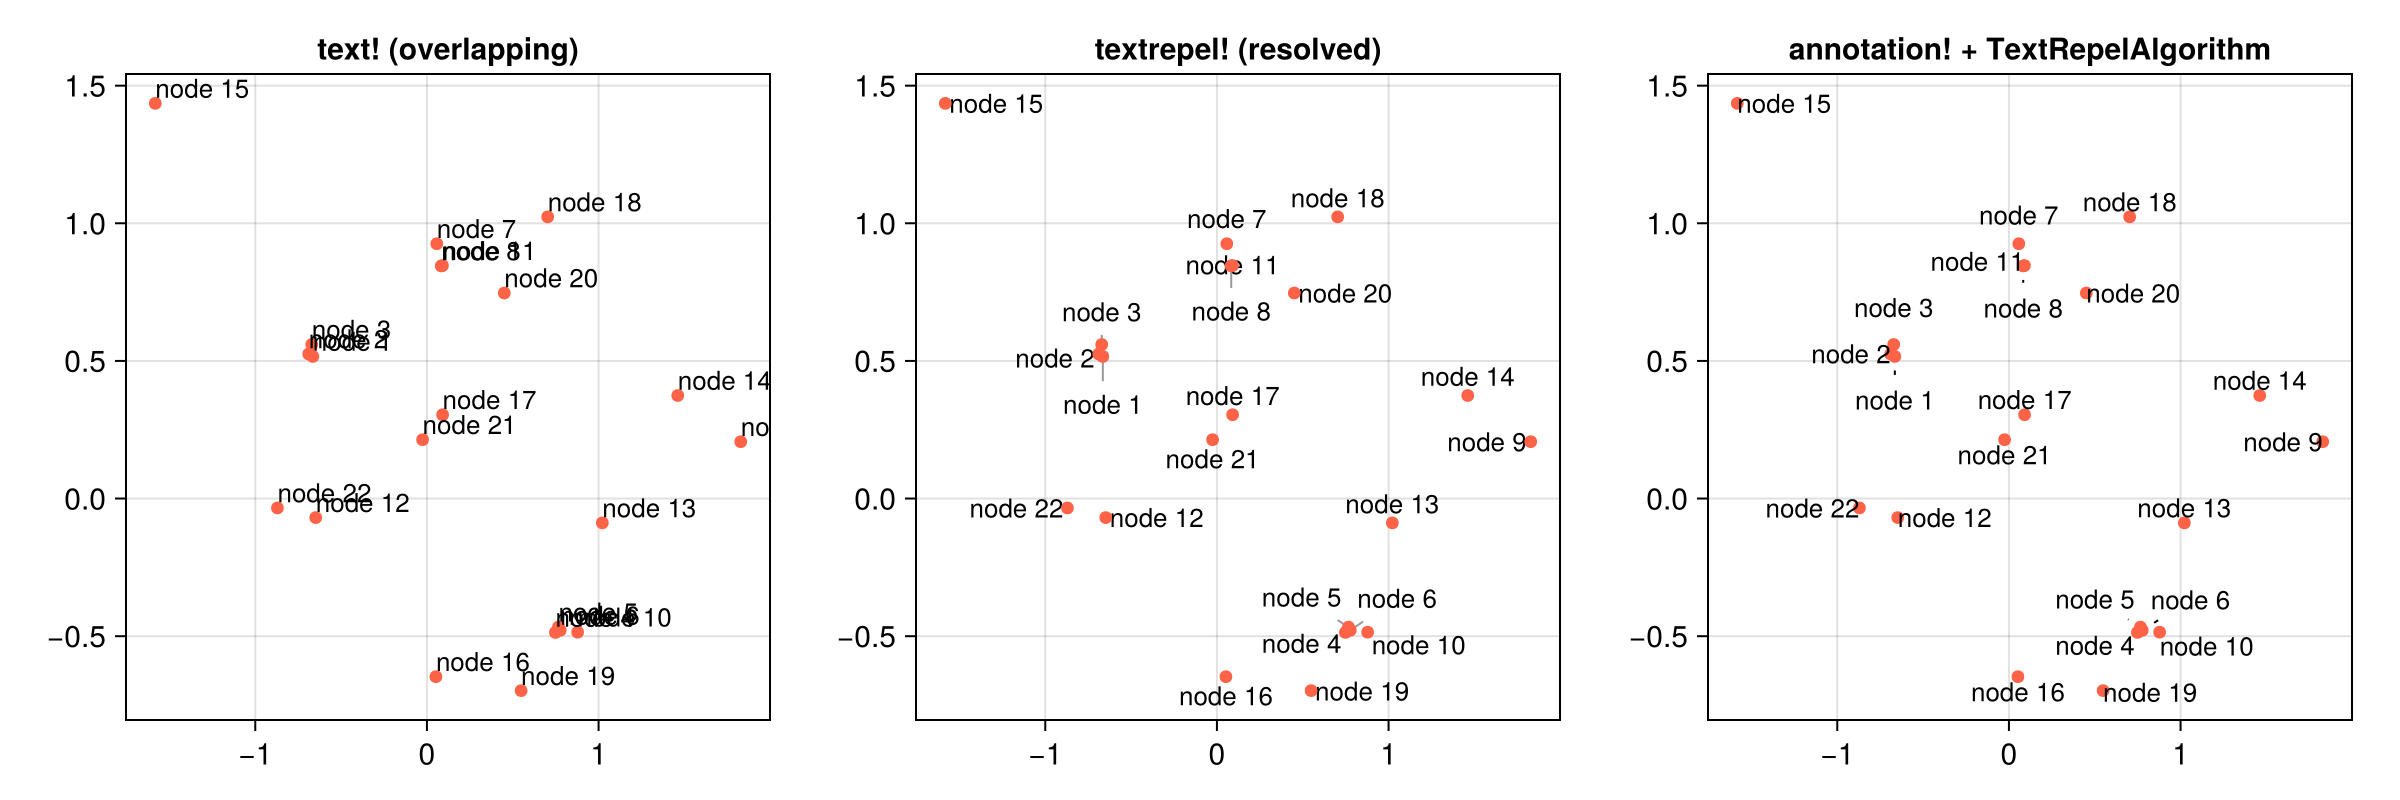
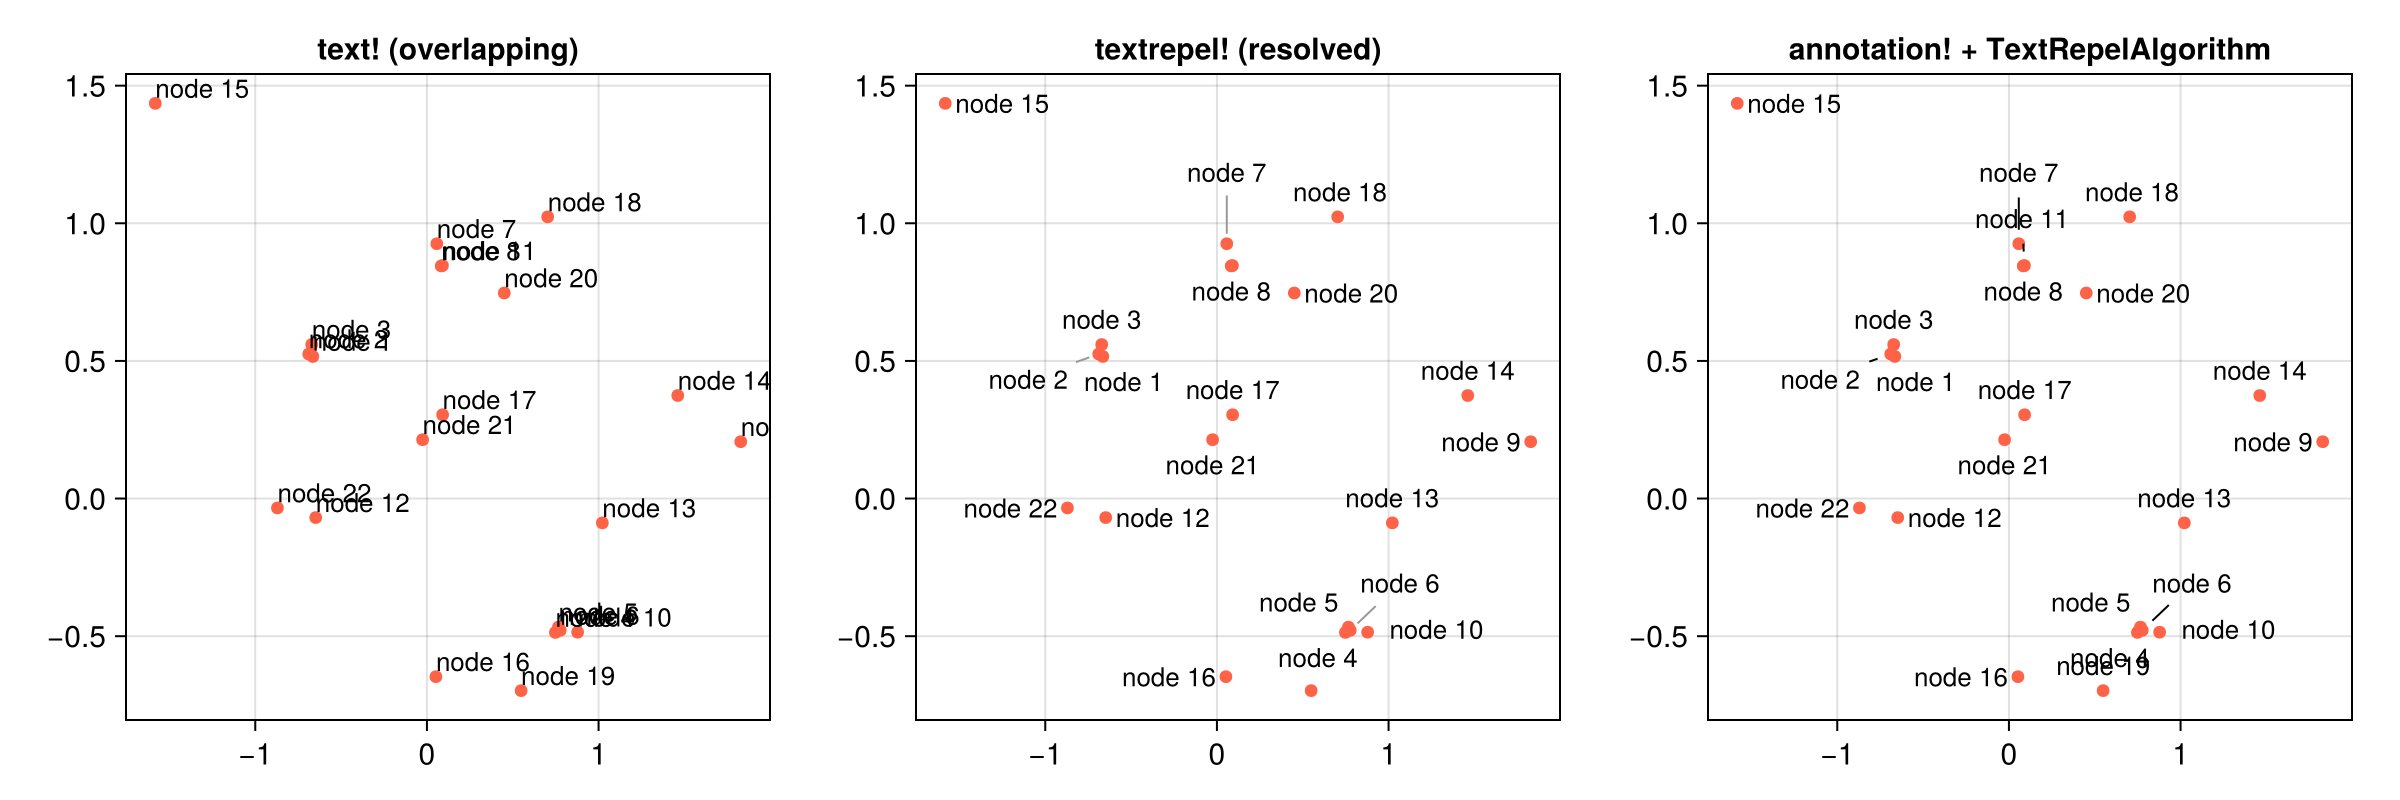
docs: reframe point_padding as marker clearance; regenerate hero (#21)

diff --git a/CLAUDE.md b/CLAUDE.md
@@ -63,12 +63,12 @@ Several pure layers feed a thin Makie recipe. Keep the layers Makie-free where t
 ProjectionSolver pure pipeline stages (GeometryBasics-only; composed by `solvers/projection.jl`):
 
 - **`src/side_select.jl`** — greedy discrete Imhof-slot refinement. `side_select` picks, per label, the in-bounds Imhof slot minimizing the **fully lexicographic, weightless** key `(hard_overlaps, leader, rank)` (compared via native tuple `<`): `hard_overlaps` = label–label box overlaps + label–obstacle overlaps + label–marker point overlaps (foreign anchors covered by the label box, via `point_covered`, at the *same* level as a box overlap — `W_pt = W_lap`); `leader` = ‖offset‖; `rank` = the Imhof slot index (TR=0…TL=7), the lowest tiebreak that breaks exact-leader ties toward the upper/right slot and never lengthens a leader. Overlap-avoidance provably dominates leader, which dominates readability; a label never avoids its own anchor. Seeded from the Voronoi-informed init. Pinned labels fixed; obstacles count as fixed boxes. Deterministic.
-- **`src/legalize.jl`** — Dykstra constraint-projection node-overlap removal. Per round: collect overlapping pairs, assign each to its cheaper (smaller-penetration) axis as a 1-D separation constraint, project onto them with Dykstra's cyclic algorithm (the min-displacement QP that VPSC solves), clamp to bounds, repeat. Fixed nodes contribute extents but never move. A positive returned `residual` means the scene couldn't be cleared in-bounds (over-capacity). Caps (`rounds=400` × `iters=5000`) are a pathological-input backstop, not a typical cost. Real scan-line VPSC is consciously deferred (see spec Non-goals).
+- **`src/legalize.jl`** — Dykstra constraint-projection node-overlap removal. Per round: collect overlapping pairs, assign each to its cheaper (smaller-penetration) axis as a 1-D separation constraint, project onto them with Dykstra's cyclic algorithm (the min-displacement QP that VPSC solves), clamp to bounds, repeat. Fixed nodes contribute extents but never move. Also accepts a `soft` node class (participates in projection — still pushes its neighbors — but is excluded from the returned `residual`), used for the marker keep-outs so a clearance shortfall never triggers a drop. A positive returned `residual` means the scene couldn't be cleared in-bounds (over-capacity). Caps (`rounds=400` × `iters=5000`) are a pathological-input backstop, not a typical cost. Real scan-line VPSC is consciously deferred (see spec Non-goals).
 - **`src/cost.jl`** — `label_cost`, a **read-only** placement-quality functional (Q). Reports four independent, never-collapsed components: `overlaps` (label-pair box penetrations > 0.5 px), `point_overlaps` (non-dropped labels whose unpadded text box covers a non-dropped foreign anchor, via the shared `point_covered` + `point_padding` — the scoreboard twin of `side_select`'s marker term), `mean_leader` (mean ‖offset‖ over non-dropped labels), `crossings` (via `connector_for` + `find_crossings`). Dropped labels are excluded from all four. Never mutates, never feeds back into placement — diagnostics only.
 - **`src/force_model.jl`** (formerly `solver.jl`) — the **non-default** pure force-directed solver, **no Makie types**. `solve_repel(anchors, sizes, params; obstacles, init_state, pin_mask, pinned_offsets) -> (; offsets, dropped, iter, residual)`. Determinism comes from `init_offsets` (a golden-angle spiral keyed on label index — no RNG). Forces: label↔label repulsion, label↔point repulsion (includes a label's *own* anchor, balanced by an inward `force_pull` spring), user-supplied `obstacles` (`Vector{Rect2f}`) joining the force loop via `overlap_push`, step-cap cooling. `pin_mask`/`pinned_offsets` hold per-label offsets fixed throughout iteration while their boxes still act as obstacles for the rest; pinned offsets bypass `only_move`. **Determinism contract:** the `bounds === nothing` path is byte-identical to the pre-clamping output; the cooling/clamp logic only runs when `bounds` is set. Preserve this when editing the solver.
-- **`src/solvers/`** — the `AbstractClusterSolver` interface (`abstract.jl`: `solve_cluster(s, anchors, sizes, bounds; init_state, pin_mask, pinned_offsets, obstacles)`) with two implementations: **`ProjectionSolver`** (`projection.jl`, the **default** — composes the pure stages above, owns the geometric over-capacity drop loop and the `solve_stats` Q-diagnostics `Ref`) and **`ForceSolver`** (`force.jl`, wraps `solve_repel`). A solver owns the entire placement strategy: `init_state === nothing` ⇒ fresh placement (init + side-select + crossing repair internally); a given `init_state` ⇒ warm-start/relax. Both recipe and annotation call `solve_cluster` — never the bare solvers. Internal; export gated on a third implementation (issue #8).
+- **`src/solvers/`** — the `AbstractClusterSolver` interface (`abstract.jl`: `solve_cluster(s, anchors, sizes, bounds; init_state, pin_mask, pinned_offsets, obstacles)`) with two implementations: **`ProjectionSolver`** (`projection.jl`, the **default** — composes the pure stages above, owns the geometric over-capacity drop loop and the `solve_stats` Q-diagnostics `Ref`; its `legalize_and_drop` appends every anchor as a fixed+soft keep-out node of half-extent `point_padding − box_padding`, enforcing the marker-clearance floor for own and foreign markers WITHOUT ever dropping a label to satisfy it — soft ⇒ excluded from the drop-triggering residual) and **`ForceSolver`** (`force.jl`, wraps `solve_repel`). A solver owns the entire placement strategy: `init_state === nothing` ⇒ fresh placement (init + side-select + crossing repair internally); a given `init_state` ⇒ warm-start/relax. Both recipe and annotation call `solve_cluster` — never the bare solvers. Internal; export gated on a third implementation (issue #8).
 - **`src/measure.jl`** — label → `(width, height)` px, all render-free via TextMeasure. Plain strings/LaTeX go through the layout engine (`prepare`/`layout`); rich text (`Makie.RichText`) goes through `measure_bounds` (measured at `px_per_unit=1`, post-scaled by `ppu`); any other label type raises a clear `ArgumentError`. No `Scene` is allocated (issue #6 resolved — the old `Scene`/`full_boundingbox` fallback is gone).
-- **`src/recipe.jl`** — the `textrepel!` Makie recipe (drives `ProjectionSolver` via `solve_cluster`). `@recipe TextRepel` declares all attributes (the docstrings there are the source of truth for tunables: `only_move`, `box_padding`/`point_padding`, `min_segment_length`, connector and `background` box attrs). **The force tunables `force`/`force_point`/`force_pull`/`max_iter`/`max_overlaps` are inert under the default `ProjectionSolver`** (no force loop, zero-overlap guarantee, geometric dropping) — they affect only the in-tree `ForceSolver`; their docstrings say so. `Makie.plot!` wires the reactive graph: project data anchors → pixel space, `lift` measure+solve on any input change, then render text at **data** positions with per-label **pixel** offsets, plus optional background `poly!` and connector `linesegments!`.
+- **`src/recipe.jl`** — the `textrepel!` Makie recipe (drives `ProjectionSolver` via `solve_cluster`). `@recipe TextRepel` declares all attributes (the docstrings there are the source of truth for tunables: `only_move`, `box_padding`/`point_padding`, `markersize`, `min_segment_length`, connector and `background` box attrs). `point_padding` is the **marker-clearance** knob (gap from every scatter marker to the nearest label text edge; recipe default **5.0**), and the convenience `markersize` attribute, when set, overrides it with `markersize/2 + 0.5` (disc marker in `:pixel` space) — `textrepel!` draws no markers itself, this only tells the solver how much to clear. **The force tunables `force`/`force_point`/`force_pull`/`max_iter`/`max_overlaps` are inert under the default `ProjectionSolver`** (no force loop, zero-overlap guarantee, geometric dropping) — they affect only the in-tree `ForceSolver`; their docstrings say so. `Makie.plot!` wires the reactive graph: project data anchors → pixel space, `lift` measure+solve on any input change, then render text at **data** positions with per-label **pixel** offsets, plus optional background `poly!` and connector `linesegments!`.
 - **`src/annotation_algorithm.jl`** — algorithm plug-in for `Makie.annotation!`. `TextRepelAlgorithm` wraps a `RepelParams` + obstacle list + a `ProjectionSolver` (whose `Ref` backs `solve_stats(alg) -> (; iter, residual, overlaps, point_overlaps, mean_leader, crossings, dropped)`), exposing two constructors: kwarg-forwarding (`TextRepelAlgorithm(; force, only_move, ..., obstacles)`, with unknown-kwarg validation and warn-once guards on misused `bounds`/`max_overlaps`) and explicit (`TextRepelAlgorithm(params::RepelParams)`). The registered `Makie.calculate_best_offsets!` method translates `annotation!`'s call shape (text bboxes, viewport, `textpositions_offset`, `reset`) to `solve_cluster`'s: maps finite `textpositions_offset` entries to pinned offsets and NaN entries to auto-placed labels, pre-biases `init_state` with `bbox_center - textposition` + golden-angle perturbation (so non-center alignment and coincident anchors both work), warm-starts from the incoming `offsets` vector when `reset=false`, and feeds `alg.obstacles` through. Adds back `align_bias` in the writeback only on the `reset=true` path. The dispatch hook is undocumented Makie internals; `test/test_annotation_algorithm.jl` carries a stability canary that fails loudly if Makie renames or re-signatures it.
 
 ### Two gotchas that have bitten before
@@ -79,5 +79,5 @@ ProjectionSolver pure pipeline stages (GeometryBasics-only; composed by `solvers
 ## Project state & history
 
 - Design specs and TDD plans live in `docs/superpowers/specs/` and `docs/superpowers/plans/` — read the relevant one before reworking a subsystem.
-- Deferred work is tracked as GitHub issues (#3 glyph-fallback, #4 rounded `cornerradius`, #5 `[sources]` URL flip, #8 solver-seam export). Voronoi-informed init + leader-line crossing repair landed in #11 (`src/voronoi.jl`, `src/crossings.jl`). The `ProjectionSolver` (side-select → legalize → geometric drop, now the default; zero-overlap guarantee replacing the earlier no-crossing aim) landed in #17 (`src/side_select.jl`, `src/legalize.jl`, `src/cost.jl`, `src/solvers/projection.jl`). Real scan-line VPSC in `legalize.jl` is still deferred (Dykstra stand-in shipped). The package version remains **0.1.0** — these are development milestones, not released versions.
+- Deferred work is tracked as GitHub issues (#3 glyph-fallback, #4 rounded `cornerradius`, #5 `[sources]` URL flip, #8 solver-seam export). Voronoi-informed init + leader-line crossing repair landed in #11 (`src/voronoi.jl`, `src/crossings.jl`). The `ProjectionSolver` (side-select → legalize → geometric drop, now the default; zero-overlap guarantee replacing the earlier no-crossing aim) landed in #17 (`src/side_select.jl`, `src/legalize.jl`, `src/cost.jl`, `src/solvers/projection.jl`). Real scan-line VPSC in `legalize.jl` is still deferred (Dykstra stand-in shipped). Point-aware legalize (the marker-clearance floor — soft anchor keep-out nodes in `legalize.jl`) is now **IMPLEMENTED** (issue #21): `point_padding` is the marker-clearance knob, defaulting to **5.0** on the user surfaces (recipe attr + `TextRepelAlgorithm`) while the `RepelParams` primitive stays **0.0** (the ForceSolver halo radius), plus the recipe `markersize` convenience attribute. The package version remains **0.1.0** — these are development milestones, not released versions.
 - `examples/readme_example.jl` reproduces the README hero image.